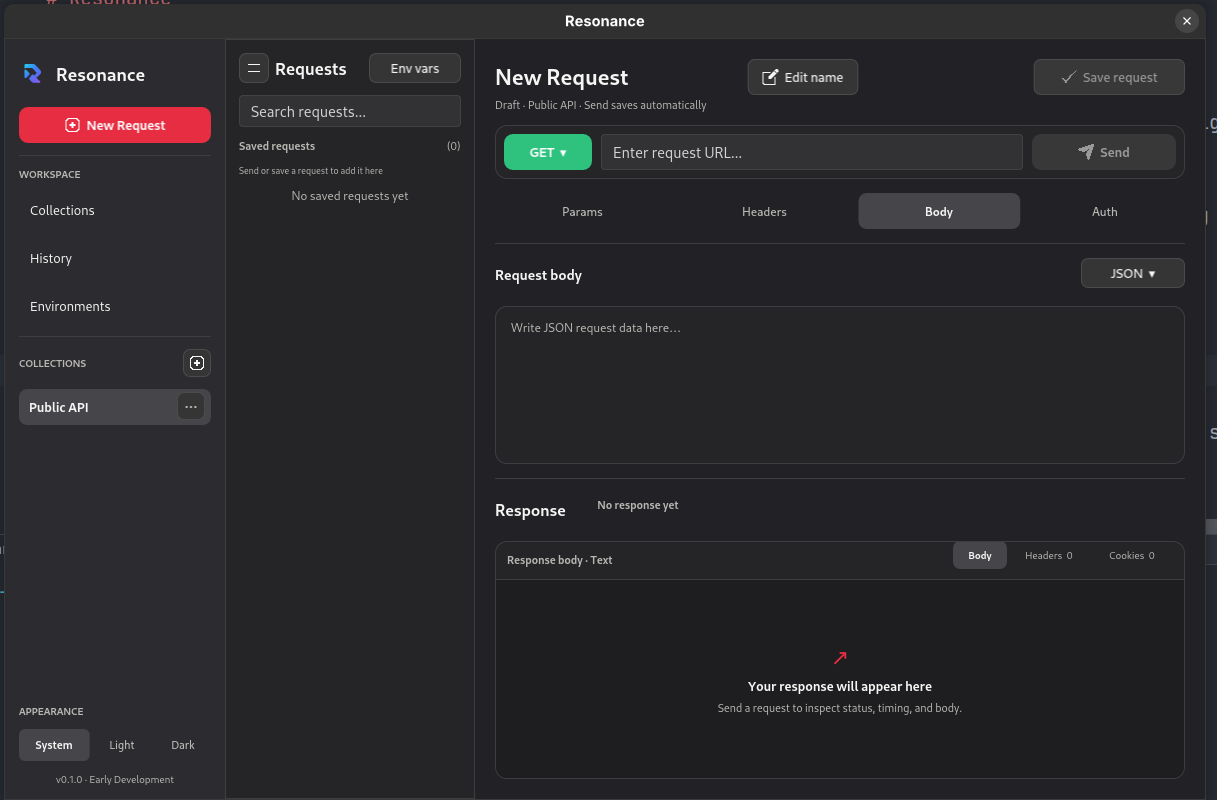
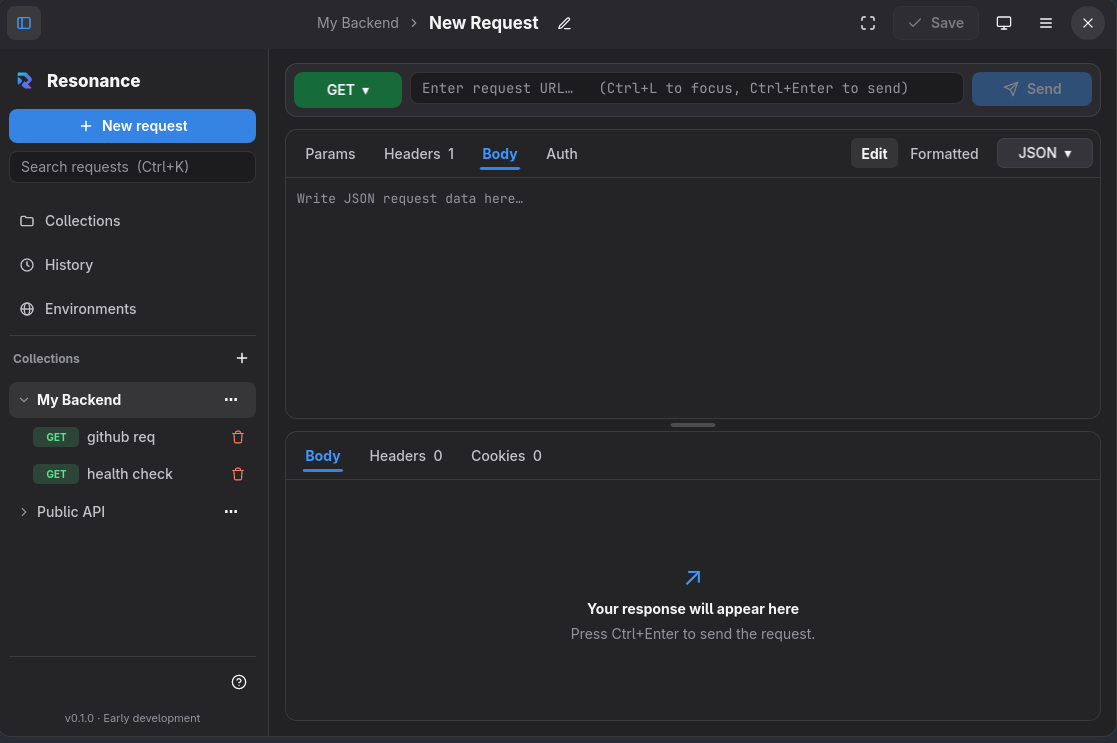
docs: update README and release screenshots

diff --git a/README.md b/README.md
@@ -71,27 +71,61 @@ For me, this project is about building a useful tool while learning through prac
 
 ## Current Features
 
-- Send HTTP requests and inspect responses.
-- Configure request methods and URLs.
-- Add request headers, query parameters, and request bodies.
-- View HTTP status codes, response times, and response bodies.
-- Save, load, update, and delete requests using SQLite.
-- Switch between dark, light, and system themes.
+### Requests and collections
 
-Resonance is still in early development, so the current feature set is intentionally limited.
+- Create, rename, save, and delete requests organized into collections.
+- Configure HTTP methods, URLs, query parameters, headers, request bodies, and None, Bearer, Basic, or API Key authentication.
+- Define reusable variables for each collection and use them in templated requests.
+- Review request history with status filters and sort order controls.
 
-## Install on Linux
+### Responses
 
-A Linux x86-64 executable archive is available from the [latest GitHub release](https://github.com/yashG0/resonance-api-testing-platform/releases/latest). Download `resonance-v0.1.1-linux-x86_64.tar.gz` and extract it:
+- Inspect response status, elapsed time, body, headers, and cookies.
+- View responses in Pretty or Raw mode. JSON Pretty mode includes syntax colors and line numbers.
+- Wrap long response lines and copy the response body. Turn wrapping off to keep JSON syntax colors and line numbers in Pretty mode.
+- Edit request bodies and format them as JSON, text, HTML, or XML.
+
+### Desktop workflow
+
+- Keep the request editor above the response panel by default, with a draggable divider to resize both areas.
+- Collapse the navigation sidebar or switch to its compact icon rail.
+- Choose System, Light, or Dark theme.
+- Use the integrated GNOME/Adwaita-inspired title bar, application menu, About dialog, and keyboard shortcuts.
+
+## Version 0.1.1 Highlights
+
+- Refined the application frame, title bar, compact controls, tab alignment, and light and dark themes.
+- Made the stacked request and response layout the default and removed the layout-cycling control while keeping the sidebar toggle.
+- Fixed the request URL field so it updates when a different saved request is selected.
+- Fixed line wrapping in Pretty JSON responses.
+- Added the About dialog and improved the application menu and control tooltips.
+
+## Downloads and Installation
+
+Release archives and SHA-256 checksum files are available on the [latest GitHub release](https://github.com/yashG0/resonance-api-testing-platform/releases/latest).
+
+### Linux x86-64
+
+Download `resonance-v0.1.1-linux-x86_64.tar.gz` and extract it:
 
 ```bash
 tar -xzf resonance-v0.1.1-linux-x86_64.tar.gz
 ./resonance
 ```
 
-The archive contains the application executable only. Required Linux system libraries may need to be installed separately. You can also build Resonance from source on the Linux machine where you plan to run it.
+The archive contains the application executable only. Required Linux system libraries may need to be installed separately.
 
-### Requirements
+### Windows x86-64
+
+Download and extract `resonance-windows-x86_64.zip`, then run `resonance.exe`. The executable and package are built by GitHub Actions; runtime behavior on Windows has not yet been verified.
+
+### macOS Apple Silicon (ARM64)
+
+Download and extract `resonance-macos-aarch64.tar.gz`, then run the `resonance` executable from the extracted folder. The package is built by GitHub Actions; runtime behavior on macOS has not yet been verified.
+
+### Build from source on Linux
+
+#### Requirements
 
 - Rust and Cargo 1.92 or newer.
 - A C/C++ build toolchain and the Linux libraries used by Slint's desktop backend.
@@ -129,15 +163,12 @@ Local storage is also not a complete security guarantee. Protecting sensitive da
 
 ## What's Next?
 
-I'm planning to improve Resonance incrementally, with a focus on:
+Resonance is in early development. Next areas of work include:
 
-- A better response viewer with formatted JSON.
-- More comfortable request editing.
-- Improved response inspection.
-- Better error handling and reliability.
-- Further security and privacy improvements.
-
-I'd rather make the core experience dependable before adding features simply to increase the feature list.
+- Broader runtime testing across Linux, Windows, and macOS.
+- Improving diagnostics and handling for failed or unusual requests.
+- Strengthening the handling of credentials and other sensitive local data.
+- Exploring import and export for collections and requests.
 
 ## Technology Stack
 
@@ -152,6 +183,8 @@ I'd rather make the core experience dependable before adding features simply to 
 ## Project Status
 
 **Early development — actively evolving.**
+
+Version 0.1.1 is available for Linux x86-64, Windows x86-64, and macOS Apple Silicon. Formatting, the test suite, and the optimized Linux build passed for this release; Windows and macOS CI builds also passed. Runtime behavior on Windows and macOS has not yet been verified.
 
 Resonance is a personal project and a learning experience. I'm building it to solve a workflow problem of my own while improving my understanding of Rust, systems programming, and software design.
 
